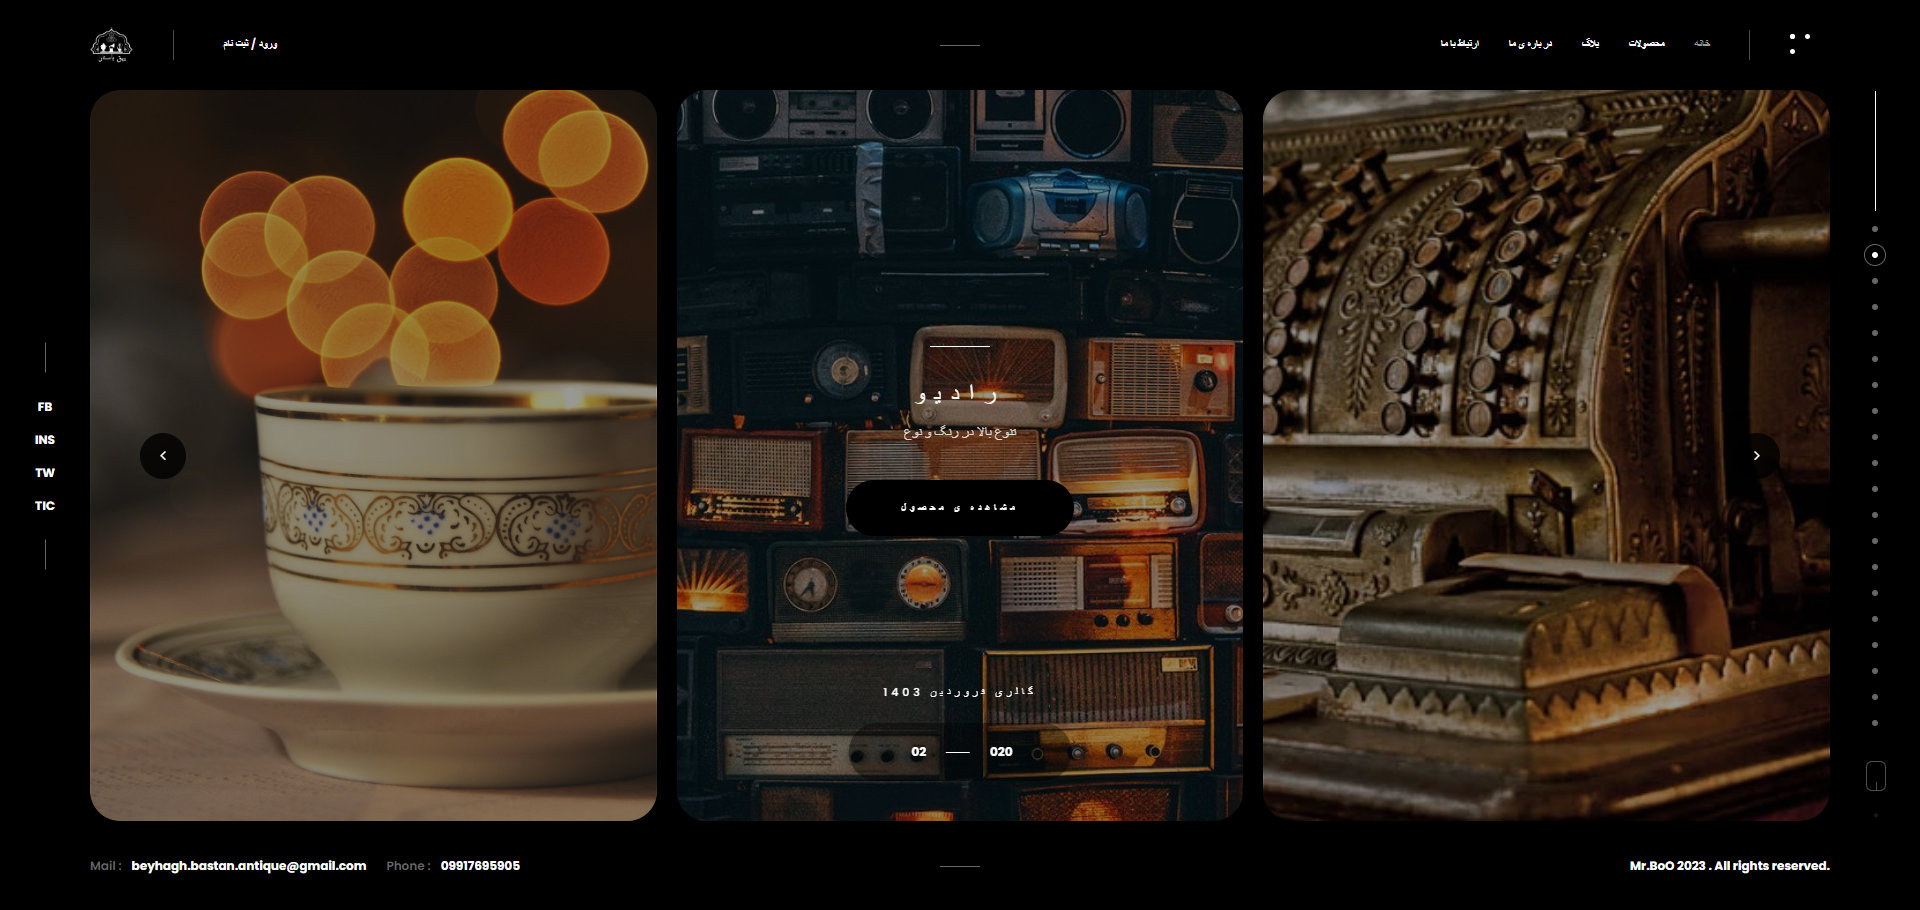
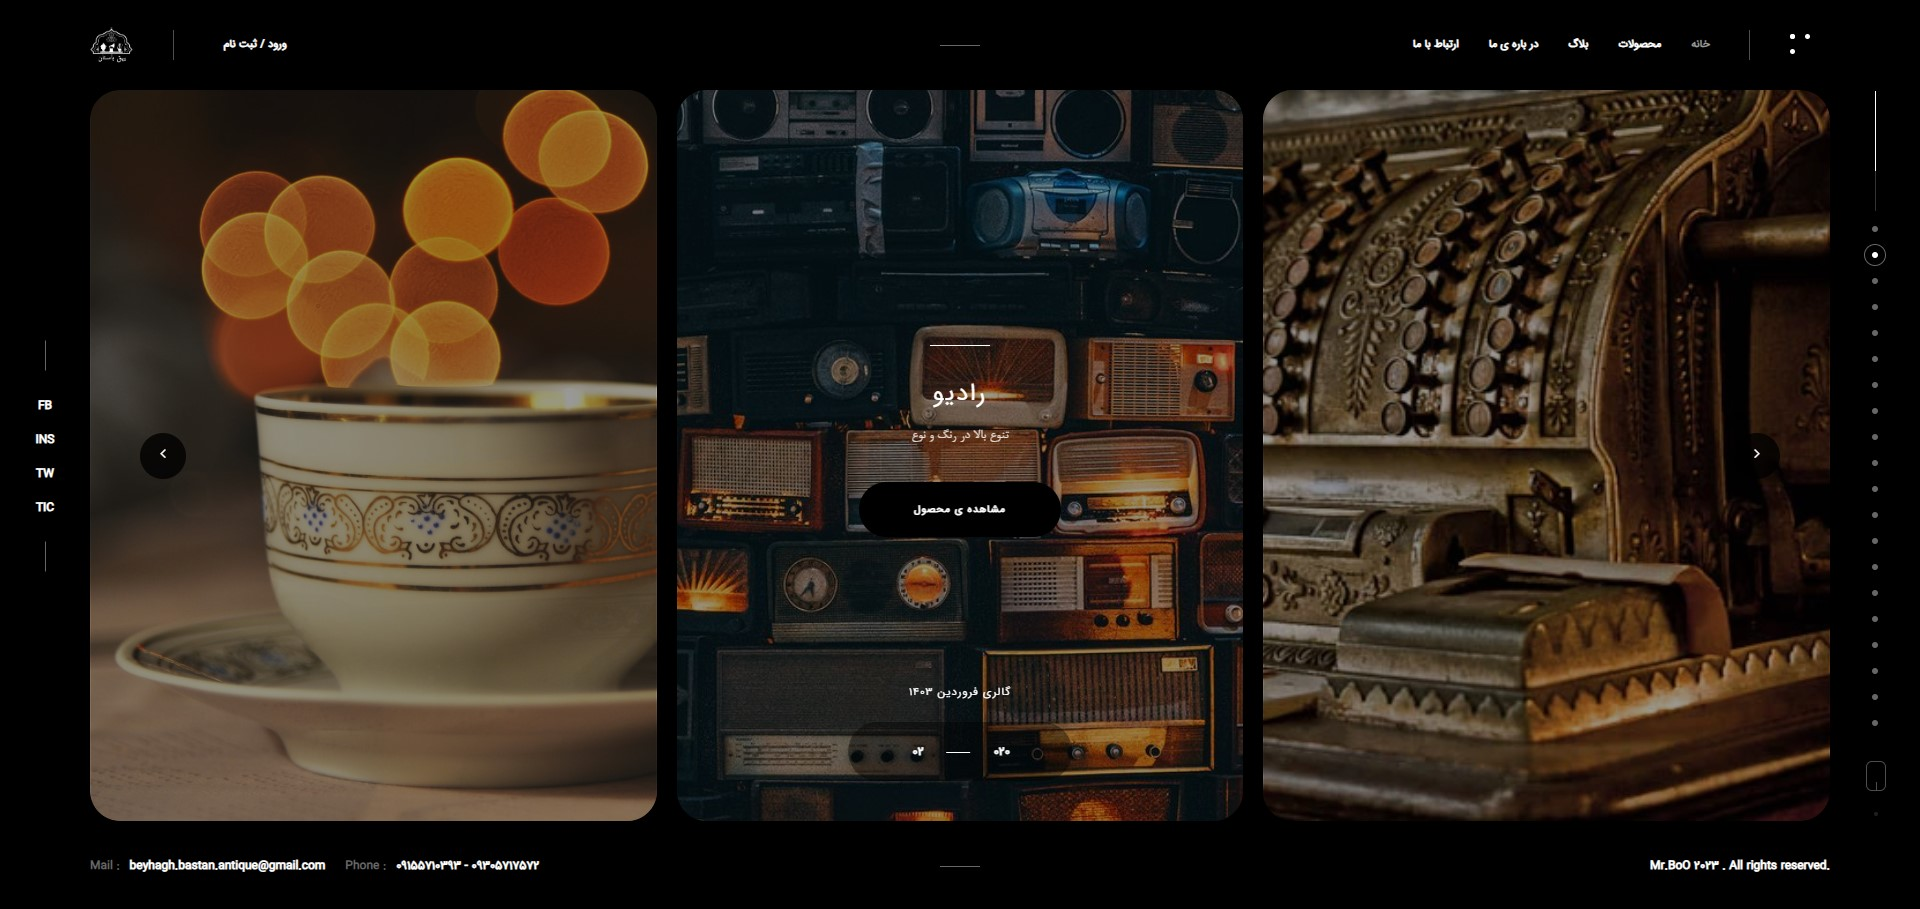
Production Part1
+ Create a new folder(setting) in root, and create 2 file for deploy and product

+ Move some security info in settings.py into setting/(dev, prod).py

+ Change default setting in manage.py to setting.dev

+ Debug contact for handle dark mode after send form

diff --git a/templates/light/contacts.html b/templates/light/contacts.html
@@ -46,14 +46,14 @@
                       <span>:آدرس</span><a href="#" target="_blank">سبزوار، خیابان قائم، قائم 1، پلاک 73</a>
                     </li>
                     <li>
-                      <span>:شماره تماس</span><a href="#">051-44231123</a> , <a href="#">09155710393</a>
+                      <span>:شماره تماس</span><a href="#">051-44231123</a> , <a href="#">09155710393 - 09305717572</a>
                     </li>
                     <li>
                       <span>:آدرس ایمیل</span><a href="#" target="_blank">beyhagh.bastan.antique@gmail.com</a>
                     </li>
                   </ul>
                 </div>
-                <a href="#sec3" class="custom-scroll-link btn fl-btn">Say Hello</a>
+                <a href="#sec3" class="custom-scroll-link btn fl-btn">-سلام-</a>
               </div>
             </div>
           </div>
@@ -85,14 +85,14 @@
             <div class="section-title fl-wrap">
               <div class="section-number">.03</div><br /><br /><br />
               <h3>منتظرتان هستیم</h3>
-              <h4>"... میتونی از پل ارتباطی زیر استفاده کنی، "هر چه میخواهد دل تنگت بگو</h4>
+              <h4>(: میتونی از پل ارتباطی زیر استفاده کنی، گوش به زنگیم<br>"... هر چه میخواهد دل تنگت بگو"</h4>
             </div>
             <div class="column-wrapper_item fl-wrap">
               <div class="column-wrapper_text fl-wrap">
                 <p>این یک متن تصادفی است.این یک متن تصادفی است.این یک متن تصادفی است.این یک متن تصادفی است.این یک متن تصادفی است.این یک متن تصادفی است.این یک متن تصادفی است.این یک متن تصادفی است.این یک متن تصادفی است.این یک متن تصادفی است.این یک متن تصادفی است.</p>
                 <div id="contact-form" class="fl-wrap">
                   <div id="message"></div>
-                  <form class="custom-form" action="{% url 'light_mode:contact' %}" method="post">
+                  <form class="custom-form" action="{% if 'dark' in request.path %}{% url 'light_mode:contact_dark' %}{% else %}{% url 'light_mode:contact' %}{% endif %}" method="post">
                     {% csrf_token %}
                     <fieldset>
                       <input type="text" name="name" id="name" placeholder="نام *" value="" required="">

diff --git a/statics/css/style.css b/statics/css/style.css
@@ -2162,7 +2162,7 @@ blockquote p {
 .gi_left_al .grid-item-info {
 	top: auto;
 	bottom: 40px;
-	text-align: left;
+	text-align: right;
 	transform: translateY(0%);
 	padding: 0 30px;
 }
@@ -2180,7 +2180,7 @@ blockquote p {
 .gi_left_al .grid-item-info  h3:before {
 	content: '';
 	position: absolute;
-	left: 0;
+	right: 0;
 	top: -30px;
 	background: #fff;
 	height: 2px;
@@ -2198,7 +2198,7 @@ blockquote p {
 	text-align: center;
 }
 .gi_left_al .grid-item-info p {
-	text-align: left
+	text-align: right
 }
 .vis-thumb-info .grid-item-info {
 	position: relative;
@@ -4178,18 +4178,18 @@ section {
 
 .next-prev {
 	border-radius: 10px;
-	box-shadow: 0 4px 8px 0 rgba(0, 0, 0, 0.2), 0 6px 20px 0 rgba(0, 0, 0, 0.19);
+	box-shadow: 0 4px 8px 0 rgba(133, 133, 133, 0.5), 0 6px 20px 0 rgba(0, 0, 0, 0.19);
 }
 .next-prev-td-right {
 	border-radius: 10px;
-	box-shadow: 0 4px 8px 0 rgba(0, 0, 0, 0.2), 0 6px 20px 0 rgba(0, 0, 0, 0.19);
+	box-shadow: 0 4px 8px 0 rgba(133, 133, 133, 0.5), 0 6px 20px 0 rgba(0, 0, 0, 0.19);
 	padding: 10px;
 	float: right; 
 	text-align: center;
 }
 .next-prev-td-left {
 	border-radius: 10px;
-	box-shadow: 0 4px 8px 0 rgba(0, 0, 0, 0.2), 0 6px 20px 0 rgba(0, 0, 0, 0.19);
+	box-shadow: 0 4px 8px 0 rgba(133, 133, 133, 0.5), 0 6px 20px 0 rgba(0, 0, 0, 0.19);
 	padding: 10px;
 	float: left; 
 	text-align: center;

diff --git a/templates/base.html b/templates/base.html
@@ -163,7 +163,7 @@
               <span>Mail :</span><a href="#" target="_blank">beyhagh.bastan.antique@gmail.com</a>
             </li>
             <li>
-              <span>Phone :</span><a href="#">09917695905</a>
+              <span>Phone :</span><a href="#">09155710393 - 09305717572</a>
             </li>
           </ul>
         </div>

diff --git a/beyhagh_bastan/settings.py b/beyhagh_bastan/settings.py
@@ -25,20 +25,7 @@ MESSAGE_TAGS = {
 BASE_DIR = Path(__file__).resolve().parent.parent
 
 
-# Quick-start development settings - unsuitable for production
-# See https://docs.djangoproject.com/en/4.2/howto/deployment/checklist/
-
-# SECURITY WARNING: keep the secret key used in production secret!
-SECRET_KEY = 'django-insecure-v8!i8204e5_v@_n82#d_2k@_92pn8=*5aqgvfu4-v3z0zr3hw@'
-
-# SECURITY WARNING: don't run with debug turned on in production!
-DEBUG = True
-
-ALLOWED_HOSTS = []
-
-
 # Application definition
-
 INSTALLED_APPS = [
     'multi_captcha_admin',
     'django.contrib.admin',
@@ -93,17 +80,6 @@ TEMPLATES = [
 WSGI_APPLICATION = 'beyhagh_bastan.wsgi.application'
 
 
-# Database
-# https://docs.djangoproject.com/en/4.2/ref/settings/#databases
-
-DATABASES = {
-    'default': {
-        'ENGINE': 'django.db.backends.sqlite3',
-        'NAME': BASE_DIR / 'db.sqlite3',
-    }
-}
-
-
 # Password validation
 # https://docs.djangoproject.com/en/4.2/ref/settings/#auth-password-validators
 
@@ -144,14 +120,7 @@ USE_TZ = True
 # https://docs.djangoproject.com/en/4.2/howto/static-files/
 
 STATIC_URL = 'static/'
-STATIC_ROOT = BASE_DIR / 'static'
-
 MEDIA_URL = '/media/'
-MEDIA_ROOT = BASE_DIR / 'media'
-
-STATICFILES_DIRS = [
-    BASE_DIR / "statics",
-]
 
 # Default primary key field type
 # https://docs.djangoproject.com/en/4.2/ref/settings/#default-auto-field
@@ -200,16 +169,6 @@ CAPTCHA_FONT_SIZE = 40
 # LOGIN_REDIRECT_URL = ""
 # LOGOUT_REDIRECT_URL = "accounts:login_light"
 
-# ******************************** reset password with email ********************************
-# !!!  C u o t i o n  !!! We must change some lines on the auth.views and moddified app name on th password_reset_email.html in PasswordResetEmail class
-# EMAIL_BACKEND = "django.core.mail.backends.console.EmailBackend"    # With console
-EMAIL_BACKEND = "django.core.mail.backends.smtp.EmailBackend"         # With email
-EMAIL_HOST = 'smtp.gmail.com'
-EMAIL_POST = 587
-EMAIL_USE_TLS = True
-EMAIL_HOST_USER ='beyhagh.bastan.antique@gmail.com'
-EMAIL_HOST_PASSWORD ='byxy leux imad acea' # From beyhagh.bastan.antique@gmail.com
-# ******************************** reset password with email ********************************
 
 # ***************************** Set Thousand Separator ********************************
 USE_THOUSAND_SEPARATOR = True
@@ -220,8 +179,6 @@ DECIMAL_SEPARATOR='.'
 
 NUMBER_GROUPING = 3
 # ***************************** Set Thousand Separator ********************************
-
-SITE_ID = 2 # Using site id for site framework
 
 # Admin's captcha types(simple-captcha, recaptcha, recaptcha2)
 MULTI_CAPTCHA_ADMIN = {

diff --git a/beyhagh_bastan/setting/dev.py b/beyhagh_bastan/setting/dev.py
@@ -1,0 +1,43 @@
+from beyhagh_bastan.settings import *
+
+
+# Quick-start development settings - unsuitable for production
+# See https://docs.djangoproject.com/en/4.2/howto/deployment/checklist/
+
+# SECURITY WARNING: keep the secret key used in production secret!
+SECRET_KEY = 'django-insecure-v8!i8204e5_v@_n82#d_2k@_92pn8=*5aqgvfu4-v3z0zr3hw@'
+
+# SECURITY WARNING: don't run with debug turned on in production!
+DEBUG = True
+
+ALLOWED_HOSTS = []
+
+SITE_ID = 2 # Using site id for site framework
+
+# Database
+# https://docs.djangoproject.com/en/4.2/ref/settings/#databases
+DATABASES = {
+    'default': {
+        'ENGINE': 'django.db.backends.sqlite3',
+        'NAME': BASE_DIR / 'db.sqlite3',
+    }
+}
+
+
+STATIC_ROOT = BASE_DIR / 'static'
+MEDIA_ROOT = BASE_DIR / 'media'
+
+STATICFILES_DIRS = [
+    BASE_DIR / "statics",
+]
+
+# ******************************** reset password with email ********************************
+# !!!  C u o t i o n  !!! We must change some lines on the auth.views and moddified app name on th password_reset_email.html in PasswordResetEmail class
+# EMAIL_BACKEND = "django.core.mail.backends.console.EmailBackend"    # With console
+EMAIL_BACKEND = "django.core.mail.backends.smtp.EmailBackend"         # With email
+EMAIL_HOST = 'smtp.gmail.com'
+EMAIL_POST = 587
+EMAIL_USE_TLS = True
+EMAIL_HOST_USER ='beyhagh.bastan.antique@gmail.com'
+EMAIL_HOST_PASSWORD ='byxy leux imad acea' # From beyhagh.bastan.antique@gmail.com
+# ******************************** reset password with email ********************************

diff --git a/beyhagh_bastan/setting/prod.py b/beyhagh_bastan/setting/prod.py
@@ -1,0 +1,42 @@
+from beyhagh_bastan.settings import *
+
+# Quick-start development settings - unsuitable for production
+# See https://docs.djangoproject.com/en/4.2/howto/deployment/checklist/
+
+# SECURITY WARNING: keep the secret key used in production secret!
+SECRET_KEY = 'django-insecure-v8!i8204e5_v@_n82#d_2k@_92pn8=*5aqgvfu4-v3z0zr3hw@'
+
+# SECURITY WARNING: don't run with debug turned on in production!
+DEBUG = True
+
+ALLOWED_HOSTS = []
+
+SITE_ID = 2 # Using site id for site framework
+
+# Database
+# https://docs.djangoproject.com/en/4.2/ref/settings/#databases
+DATABASES = {
+    'default': {
+        'ENGINE': 'django.db.backends.sqlite3',
+        'NAME': BASE_DIR / 'db.sqlite3',
+    }
+}
+
+
+STATIC_ROOT = BASE_DIR / 'static'
+MEDIA_ROOT = BASE_DIR / 'media'
+
+STATICFILES_DIRS = [
+    BASE_DIR / "statics",
+]
+
+# ******************************** reset password with email ********************************
+# !!!  C u o t i o n  !!! We must change some lines on the auth.views and moddified app name on th password_reset_email.html in PasswordResetEmail class
+# EMAIL_BACKEND = "django.core.mail.backends.console.EmailBackend"    # With console
+EMAIL_BACKEND = "django.core.mail.backends.smtp.EmailBackend"         # With email
+EMAIL_HOST = 'smtp.gmail.com'
+EMAIL_POST = 587
+EMAIL_USE_TLS = True
+EMAIL_HOST_USER ='beyhagh.bastan.antique@gmail.com'
+EMAIL_HOST_PASSWORD ='byxy leux imad acea' # From beyhagh.bastan.antique@gmail.com
+# ******************************** reset password with email ********************************

diff --git a/light_mode/views.py b/light_mode/views.py
@@ -75,8 +75,8 @@ def contact_view(request):
     path_info = request.path
     # *********************************** Get full path ********************************
     light_theme = "light" in path_info
-    print(path_info)
-    print(light_theme)
+    theme = dark_light_switch(request)
+    print(theme)
     # request.add({"names": 'ali' })
     updated_request = request.GET.copy()
     print(request)
@@ -103,6 +103,7 @@ def contact_view(request):
             messages.add_message(request, messages.ERROR, msg)
             # ************************************** Set error list ***********************************************
     form = ContactForm()
+    
     return render(request, 'light/contacts.html', {'form': form, 'light_theme': light_theme})
 
 def newsletter_view(request):

diff --git a/manage.py b/manage.py
@@ -6,7 +6,7 @@ import sys
 
 def main():
     """Run administrative tasks."""
-    os.environ.setdefault('DJANGO_SETTINGS_MODULE', 'beyhagh_bastan.settings')
+    os.environ.setdefault('DJANGO_SETTINGS_MODULE', 'beyhagh_bastan.setting.dev')
     try:
         from django.core.management import execute_from_command_line
     except ImportError as exc:
